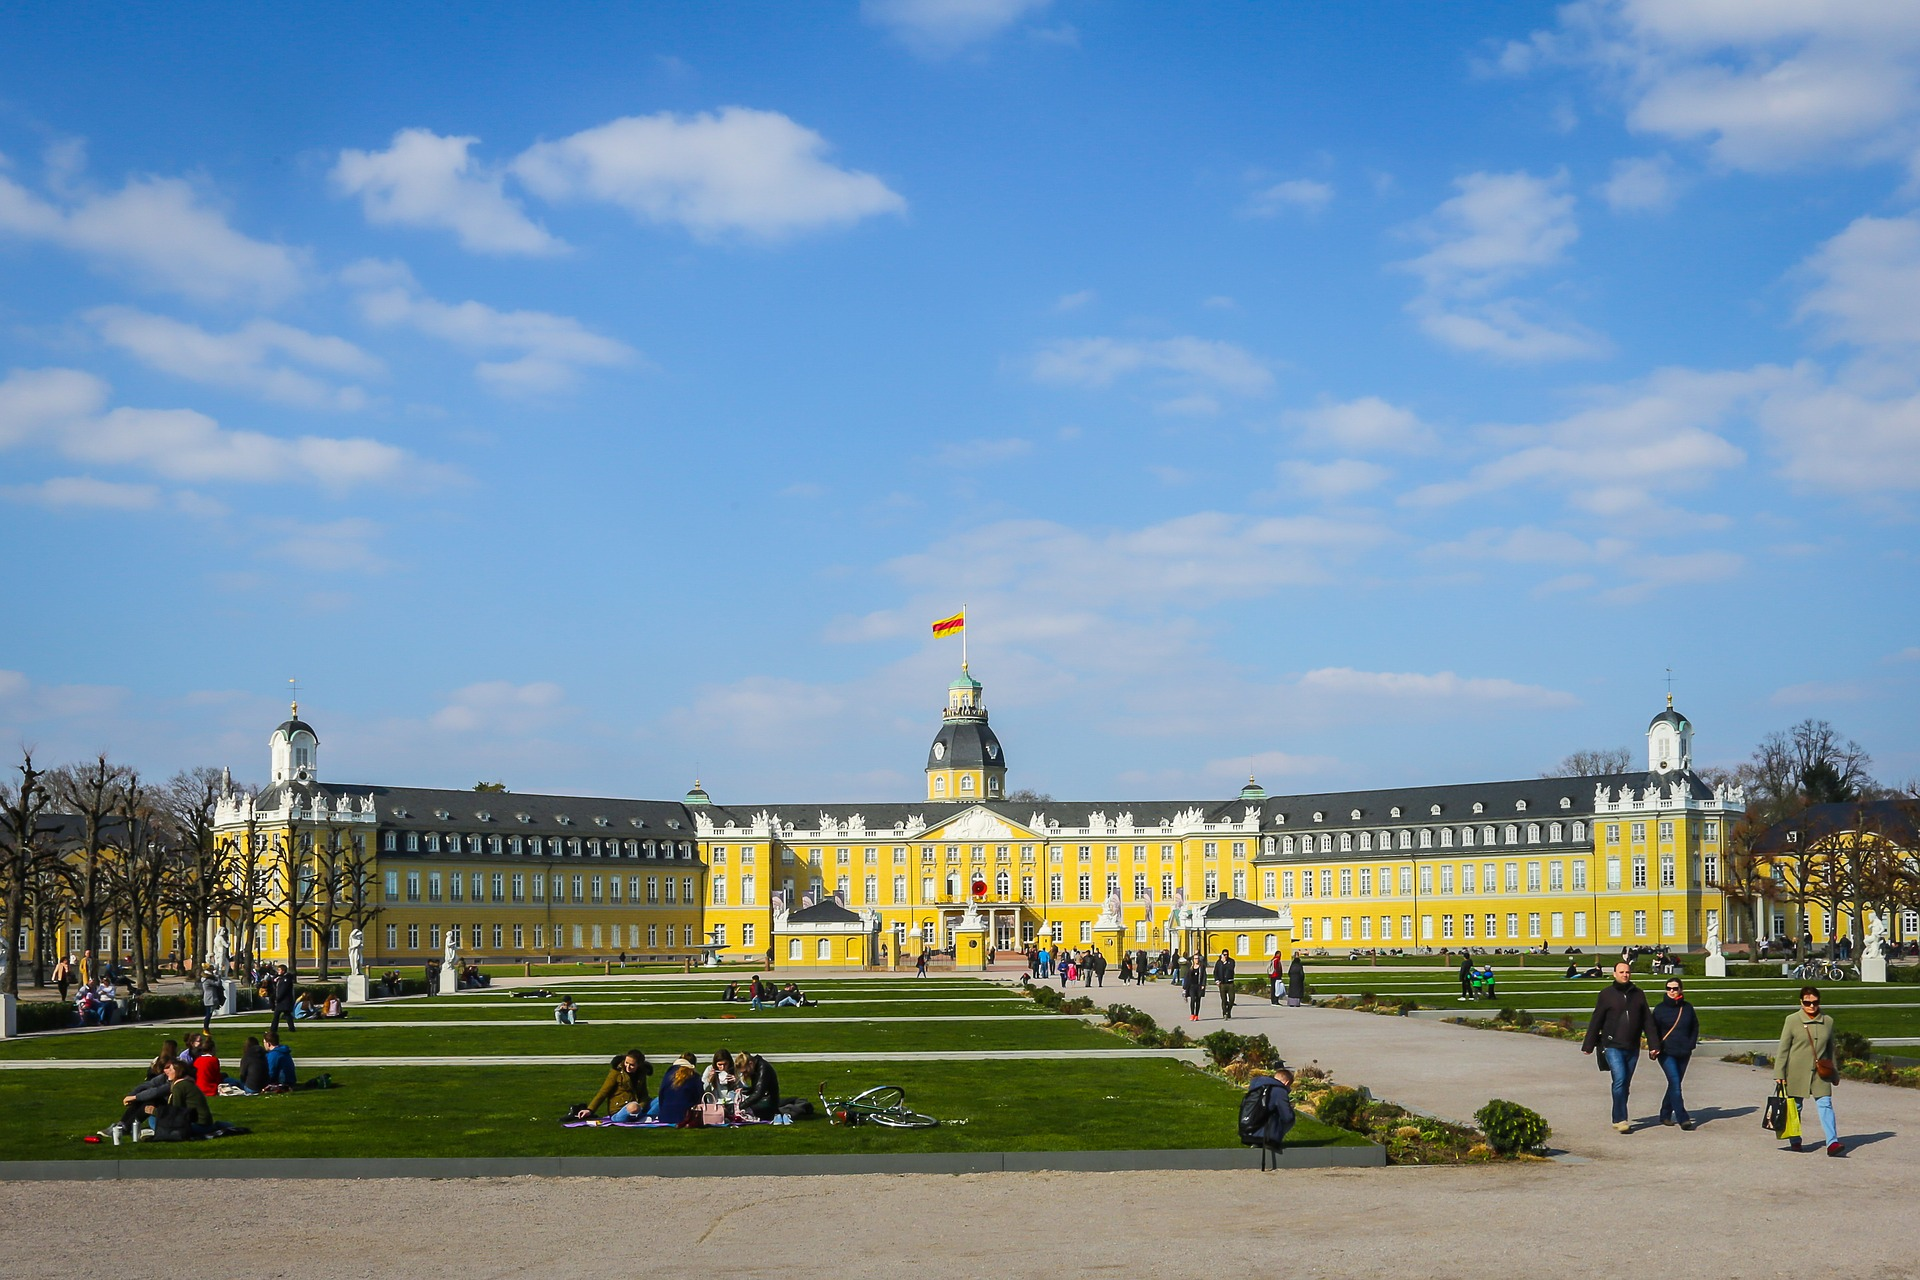
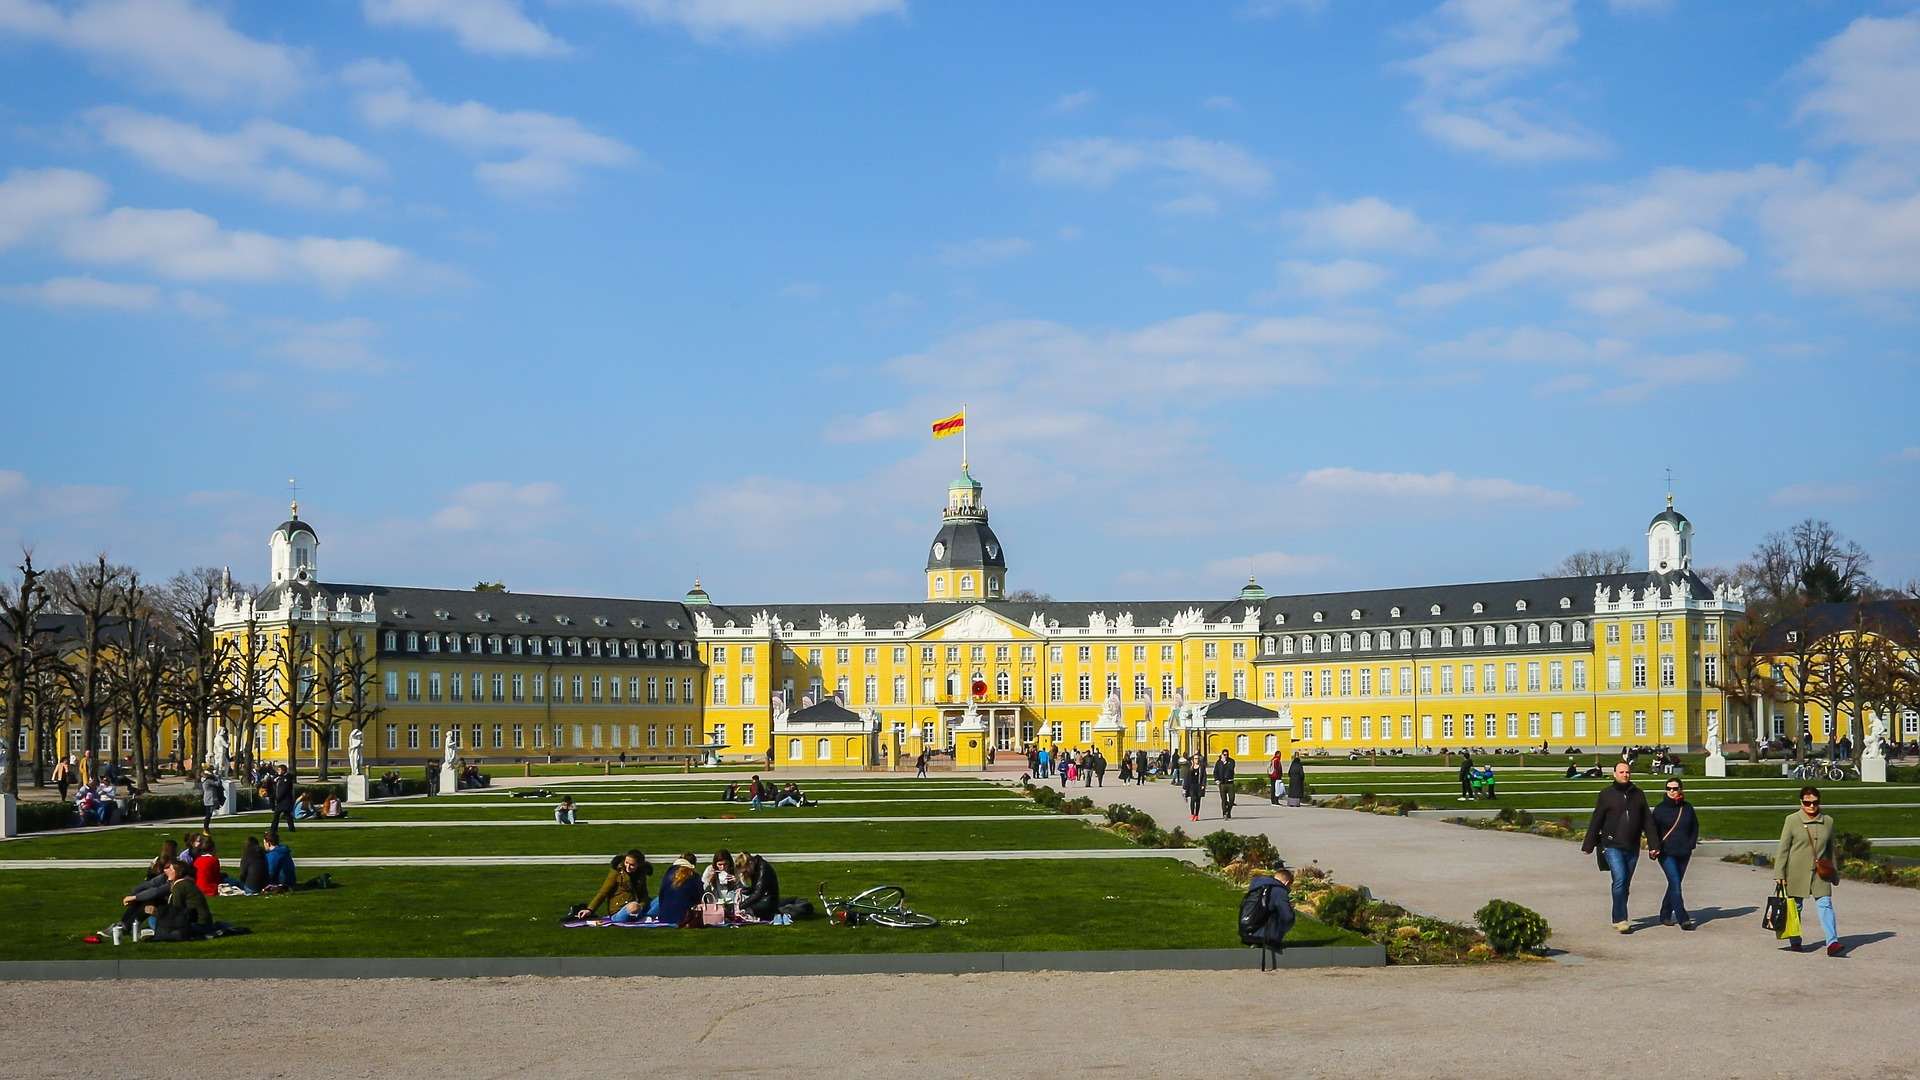
Foto-Gallerie: Ein Bild zugeschnitten, Pixabay-Lizenz auf README-Datei im Wurzelverz erwaehnt.

diff --git a/docs/FotoGallerie/index.html b/docs/FotoGallerie/index.html
@@ -43,7 +43,8 @@
                     <p class="text-center mt-2 small">
                         <a href="https://pixabay.com/images/id-3257297" target="_blank">Foto 3257297</a>
                         von Pixabay-User
-                        <a href="https://pixabay.com/users/maxmann-665103/" target="_blank">maxmann</a>
+                        <a href="https://pixabay.com/users/maxmann-665103/" target="_blank">maxmann</a>,
+                        zugeschnitten
                     </p>
                 </div>
 

diff --git a/README.md b/README.md
@@ -18,5 +18,6 @@ See the [LICENSE file](LICENSE.md) for license rights and limitations (BSD 3-Cla
 
 The repository contains some files from *Bootstrap*, which is licensed under the terms of the [MIT License](https://getbootstrap.com/docs/4.4/about/license/) and is copyrighted by Twitter.
 The repository also contains *jQuery*, which is also licensed under the terms of the [MIT License](https://jquery.org/license/).
+Further, the repository contains some photos which were released under the [Pixabay License](https://pixabay.com/service/license/).
 
 <br>

diff --git a/docs/FotoGallerie/bilder/UeberDieBilder.md b/docs/FotoGallerie/bilder/UeberDieBilder.md
@@ -1,0 +1,8 @@
+
+
+## Über die Fotos in diesem Ordner ##
+
+Die Fotos haben alle die Auflösung 1920x1080 ("Full HD"), mussten hierfür aber teilweise noch zugeschnitten werden.
+
+Sie sind alle unter der [Pixabay-Lizenz](https://pixabay.com/service/license/) veröffentlich.
+
